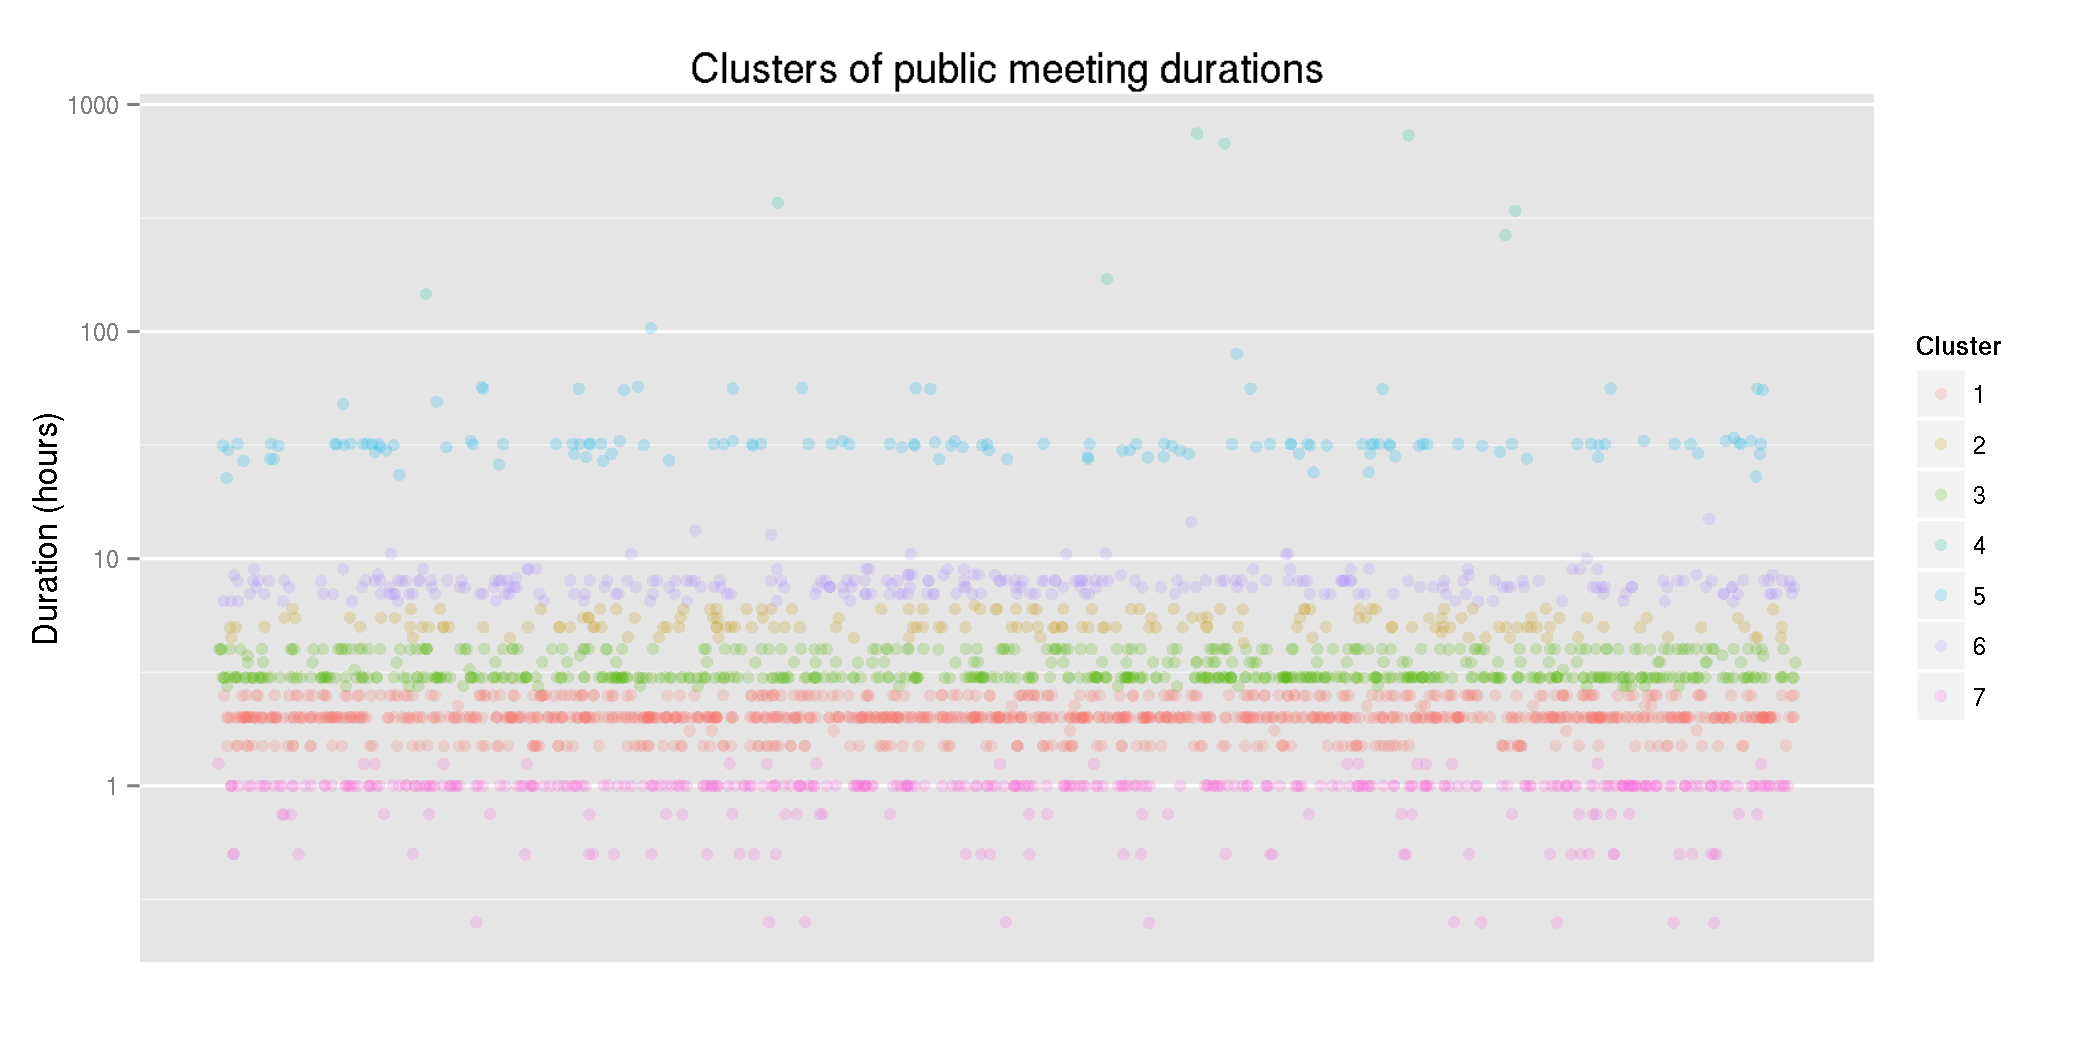
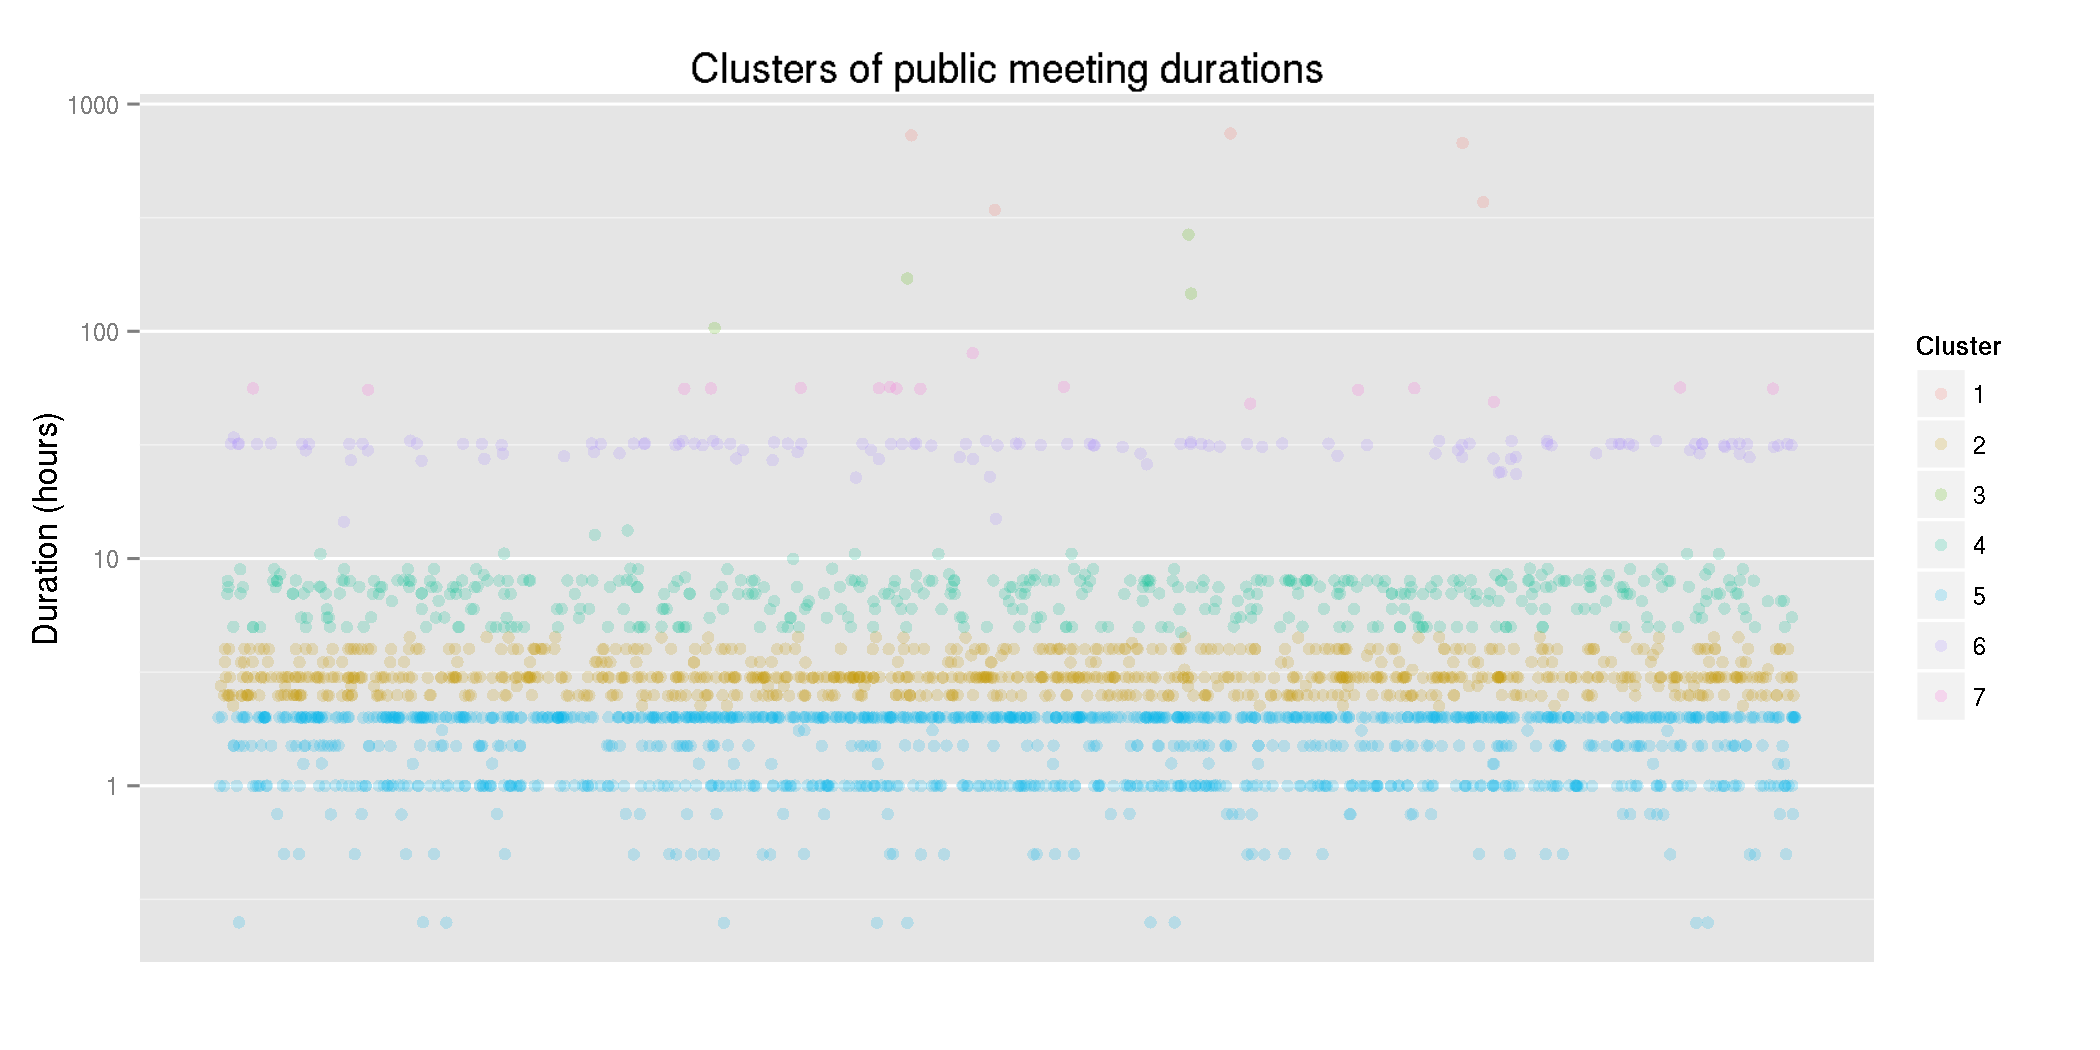
add meeting length plots

diff --git a/content/!/socrata-calendars/index.md b/content/!/socrata-calendars/index.md
@@ -13,7 +13,7 @@ There are many ways that a particular dataset could be visualized.
 Socrata has 20 ways.
 Here they are.
 
-![plot of chunk display-types](figure/display-types.png) 
+![plot of chunk display-types](figure/display-types.png){:.wide}
 
 There are a lot of Socrata [views](/!/socrata-genealogies#term-view) that don't
 have display types listed. I don't know what's up with that.
@@ -26,7 +26,7 @@ The calendar is
 [what it sounds like](https://data.oregon.gov/dataset/Public-Meetings-3-Month-View-/4775-yg3b?).
 Some of them are reasonably popular.
 
-![plot of chunk calendar-use](figure/calendar-use.png) 
+![plot of chunk calendar-use](figure/calendar-use.png){:.wide}
 
 Let's look at some specific calendars.
 
@@ -46,7 +46,7 @@ with an RSS feed from the Socrata portal. But I don't know how the calendar on S
 It looks like some other portals are using calendars a lot too,
 but usually with several separate calendars instead of one huge one.
 
-![plot of chunk calendar-use-3](figure/calendar-use-3.png) 
+![plot of chunk calendar-use-3](figure/calendar-use-3.png){:.wide}
 
 ## The cool thing about Socrata calendars
 The cool thing about Socrata calendars is that you can download them
@@ -77,7 +77,7 @@ Oregon's calendars,
 
 we find out what datasets they visualize,
 
-![plot of chunk search-2](figure/search-2.png) 
+![plot of chunk search-2](figure/search-2.png){:.wide}
 
 we look up one of the tables,
 
@@ -106,12 +106,12 @@ them into one R data frame. Now I can have fun.
 Oregon has 3436 meetings.
 Oregon even has one meeting in Washington!
 
-![plot of chunk more-meetings](figure/more-meetings.png) 
+![plot of chunk more-meetings](figure/more-meetings.png){:.wide}
 
 ### Day of week
 Meetings are usually in the middle of the week.
 
-![plot of chunk day-of-week](figure/day-of-week.png) 
+![plot of chunk day-of-week](figure/day-of-week.png){:.wide}
 
 More precisely, most meetings start in the middle of the week, and
 you'll see later that most meetings last less than a day.
@@ -119,37 +119,18 @@ you'll see later that most meetings last less than a day.
 ### Date cleaning
 Let's clean up the dates so we can look at when meetings happen and how long they are.
 
+A bunch of the meetings have end times before their start times. Also, about a third of
+the meetings don't have end times, but I'm not going to worry about that for now.
 
-```r
-public.meetings$Duration <- as.numeric(public.meetings$End - public.meetings$Start)/3600  # hours
-ggplot(public.meetings) + aes(x = Start, y = Duration, color = State) + geom_jitter(alpha = 0.2) + 
-    scale_x_date("Start date") + ggtitle("Meeting dates and durations")
-```
+![](figure/meeting-length-1.png)
 
-```
-## Error: Invalid input: date_trans works with objects of class Date only
-```
-
-
-(About a third of the meetings don't have end times, and those aren't displayed on the plot.)
-
-A bunch of the meetings have end times before their start times. We could take a look at them like so.
+We could take a look at them like so.
 
     subset(public.meetings, Duration < 0)
 
 But rather than figuring out what's wrong, let's live life on the edge and just ignore them.
 
-
-```r
-ggplot(subset(public.meetings, Duration > 0)) + aes(x = Start, y = Duration, 
-    color = State) + geom_jitter(alpha = 0.2) + scale_y_log10("Duration (hours)", 
-    breaks = 10^(0:3)) + scale_x_date("Start date") + ggtitle("Meeting dates and durations")
-```
-
-```
-## Error: Invalid input: date_trans works with objects of class Date only
-```
-
+![](figure/meeting-length-2.png)
 
 A meeting has already been planned for 2020!
 
@@ -188,7 +169,7 @@ a day, a week or a month. I didn't look very hard, but seven clusters seems okay
       scale_x_continuous("", breaks = c()) + scale_color_discrete("Cluster") + 
       labs(title = "Clusters of public meeting durations")
 
-![plot of chunk clusters](figure/clusters.png) 
+![plot of chunk clusters](figure/clusters.png){:.wide}
 
 So the meeting durations seem clustered around these durations.
 (The paranthetical durations are the mean durations for the corresponding clusters.)
